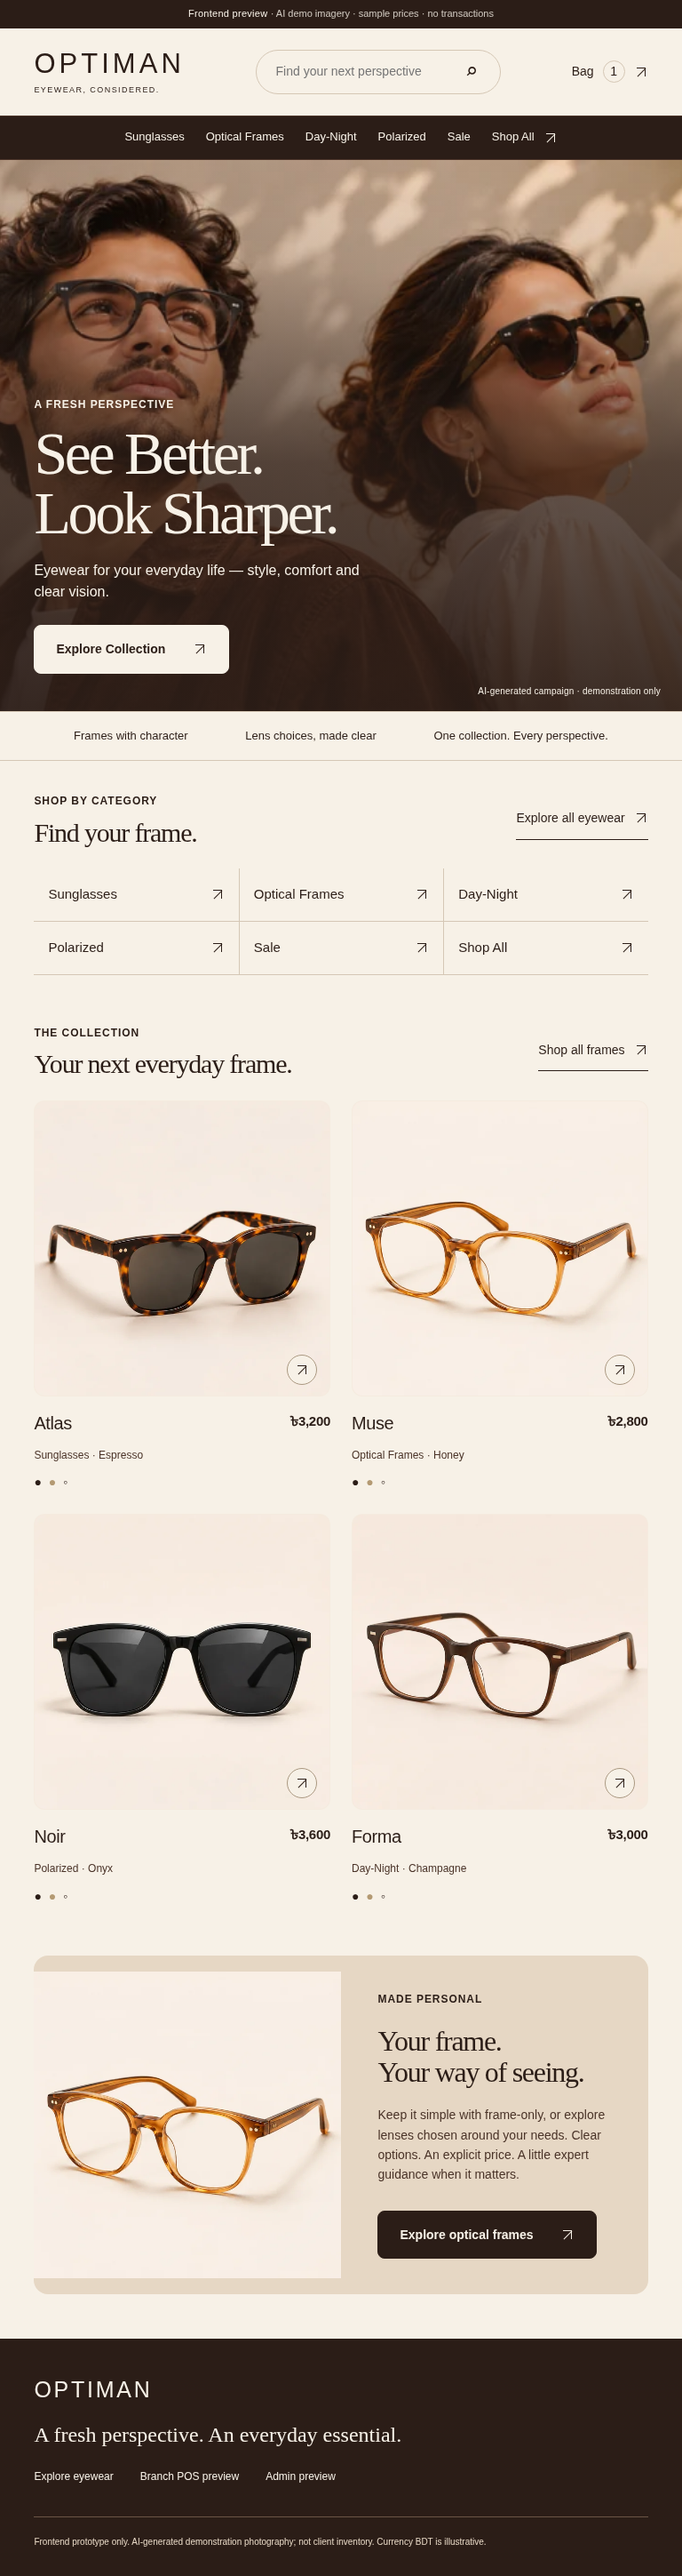
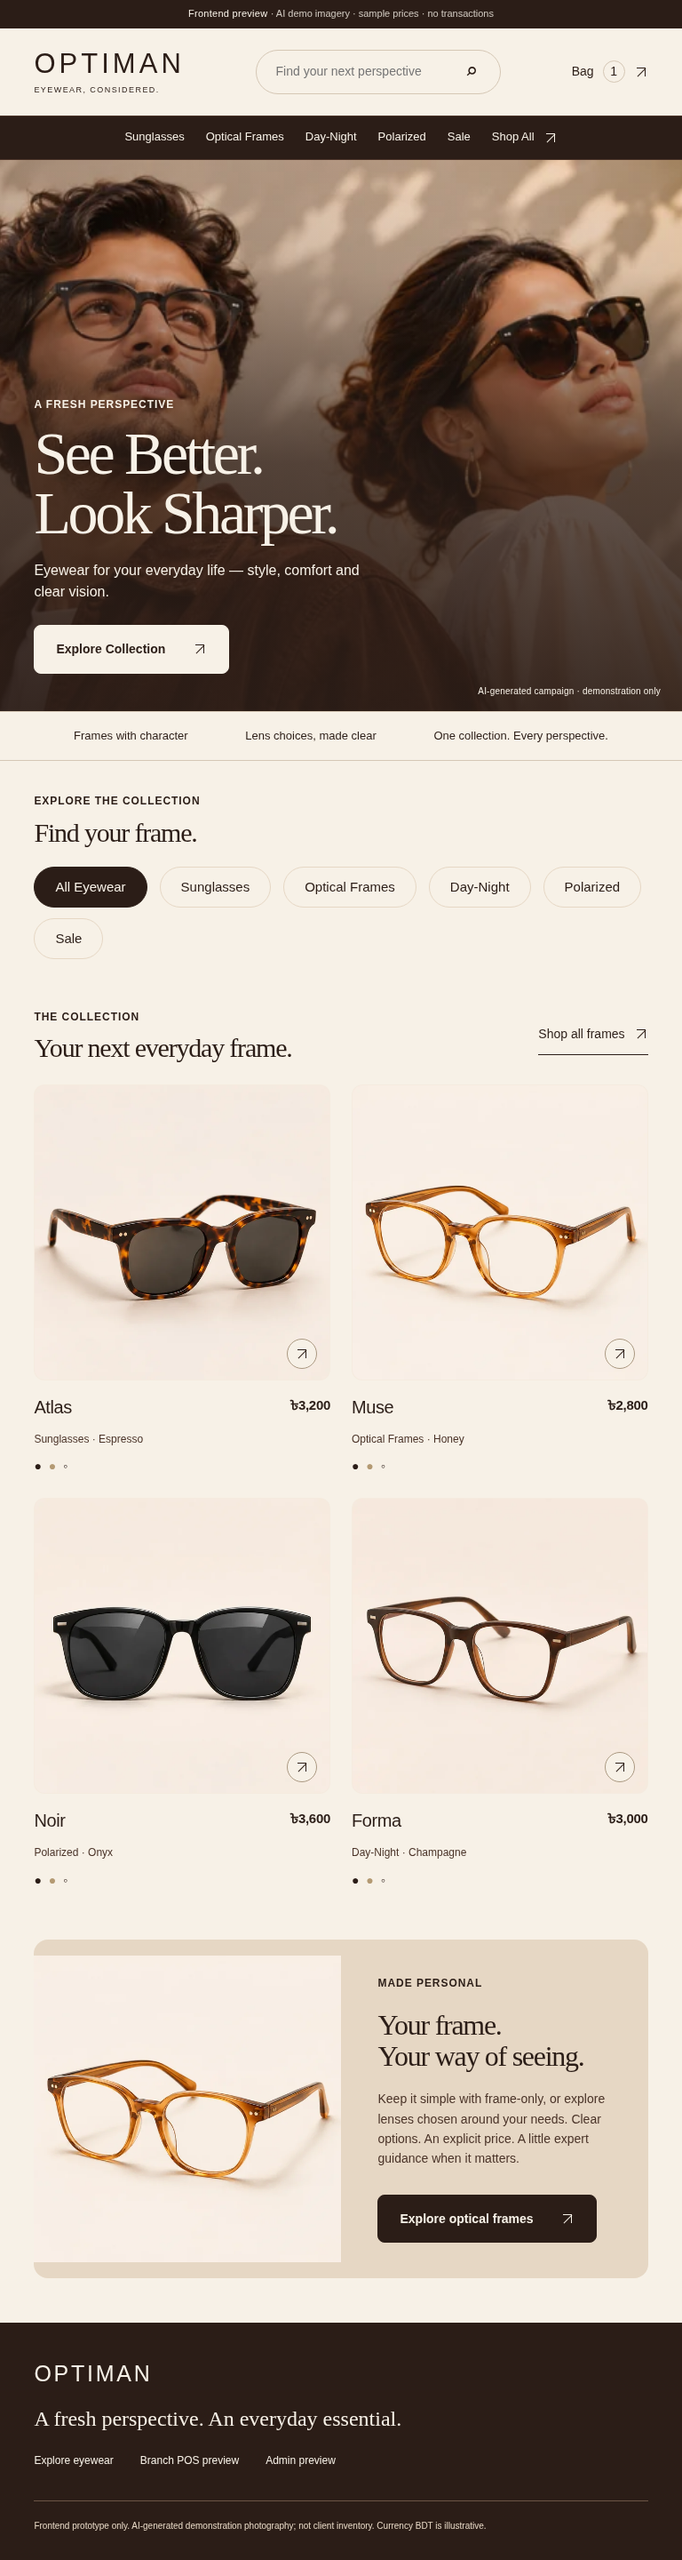
Refine homepage discovery into premium category pills

diff --git a/preview/app.js b/preview/app.js
@@ -20,10 +20,16 @@ function productPhoto(p, context='card') {
 }
 function card(p){return `<article class="product-card"><a href="#product/${p.id}" class="product-image">${productPhoto(p)}<span class="image-arrow"><i class="arrow" aria-hidden="true"></i></span></a><div class="card-meta"><div><a href="#product/${p.id}"><h3>${p.name}</h3></a><p>${p.category} · ${p.color}</p></div><strong>${money(p.price)}</strong></div><span class="dots" aria-label="Illustrative color palette">● <span>●</span> ◦</span></article>`;}
 function heading(k,t,desc=''){return `<div class="page-heading"><p class="eyebrow">${k}</p><h1>${t}</h1>${desc?`<p>${desc}</p>`:''}</div>`;}
-function home(){return `<section class="hero campaign-hero"><div class="hero-copy"><p class="eyebrow">A fresh perspective</p><h1>See Better.<br><em>Look Sharper.</em></h1><p>Eyewear for your everyday life — style, comfort and clear vision.</p><a class="button" href="#shop">Explore Collection <i class="arrow" aria-hidden="true"></i></a></div><figure class="hero-art"><img src="assets/campaign-eyewear-duo-1200.webp" srcset="assets/campaign-eyewear-duo-768.webp 768w, assets/campaign-eyewear-duo-1200.webp 1200w, assets/campaign-eyewear-duo-1774.webp 1774w" sizes="100vw" width="1774" height="887" alt="AI-generated campaign photograph of two models wearing optical glasses and sunglasses in warm sunlight" fetchpriority="high" loading="eager" decoding="async"></figure><p class="campaign-credit">AI-generated campaign · demonstration only</p></section><div class="benefit-strip"><span>Frames with character</span><span>Lens choices, made clear</span><span>One collection. Every perspective.</span></div><section class="section category-section"><div class="section-title"><div><p class="eyebrow">SHOP BY CATEGORY</p><h2>Find your frame.</h2></div><a href="#shop">Explore all eyewear <i class="arrow" aria-hidden="true"></i></a></div><div class="category-links">${[
-  ['Sunglasses','sunglasses'],['Optical Frames','optical'],['Day-Night','day-night'],
-  ['Polarized','polarized'],['Sale','sale'],['Shop All','']
-].map(([label,slug])=>`<a class="category-link" aria-label="${label}" href="#shop${slug?'/'+slug:''}"><span>${label}<i class="arrow" aria-hidden="true"></i></span></a>`).join('')}</div></section><section class="section"><div class="section-title"><div><p class="eyebrow">The collection</p><h2>Your next everyday frame.</h2></div><a href="#shop">Shop all frames <i class="arrow" aria-hidden="true"></i></a></div><div class="product-grid">${products.map(card).join('')}</div></section><section class="editorial">${productPhoto(products[1],'editorial')}<div><p class="eyebrow">MADE PERSONAL</p><h2>Your frame.<br>Your way of seeing.</h2><p>Keep it simple with frame-only, or explore lenses chosen around your needs. Clear options. An explicit price. A little expert guidance when it matters.</p><a class="button" href="#product/muse">Explore optical frames <i class="arrow" aria-hidden="true"></i></a></div></section>`;}
+function categoryPills() {
+  const route = location.hash === '' || location.hash === '#home' ? '#shop' : location.hash;
+  const categories = [
+    ['All Eyewear', '#shop'], ['Sunglasses', '#shop/sunglasses'],
+    ['Optical Frames', '#shop/optical'], ['Day-Night', '#shop/day-night'],
+    ['Polarized', '#shop/polarized'], ['Sale', '#shop/sale']
+  ];
+  return categories.map(([label, href]) => `<a class="category-pill${route === href ? ' is-active' : ''}" href="${href}"${route === href ? ' aria-current="true"' : ''}>${label}</a>`).join('');
+}
+function home(){return `<section class="hero campaign-hero"><div class="hero-copy"><p class="eyebrow">A fresh perspective</p><h1>See Better.<br><em>Look Sharper.</em></h1><p>Eyewear for your everyday life — style, comfort and clear vision.</p><a class="button" href="#shop">Explore Collection <i class="arrow" aria-hidden="true"></i></a></div><figure class="hero-art"><img src="assets/campaign-eyewear-duo-1200.webp" srcset="assets/campaign-eyewear-duo-768.webp 768w, assets/campaign-eyewear-duo-1200.webp 1200w, assets/campaign-eyewear-duo-1774.webp 1774w" sizes="100vw" width="1774" height="887" alt="AI-generated campaign photograph of two models wearing optical glasses and sunglasses in warm sunlight" fetchpriority="high" loading="eager" decoding="async"></figure><p class="campaign-credit">AI-generated campaign · demonstration only</p></section><div class="benefit-strip"><span>Frames with character</span><span>Lens choices, made clear</span><span>One collection. Every perspective.</span></div><section class="section category-section"><div class="section-title"><div><p class="eyebrow">EXPLORE THE COLLECTION</p><h2>Find your frame.</h2></div></div><div class="category-pills" role="group" aria-label="Explore eyewear categories">${categoryPills()}</div></section><section class="section"><div class="section-title"><div><p class="eyebrow">The collection</p><h2>Your next everyday frame.</h2></div><a href="#shop">Shop all frames <i class="arrow" aria-hidden="true"></i></a></div><div class="product-grid">${products.map(card).join('')}</div></section><section class="editorial">${productPhoto(products[1],'editorial')}<div><p class="eyebrow">MADE PERSONAL</p><h2>Your frame.<br>Your way of seeing.</h2><p>Keep it simple with frame-only, or explore lenses chosen around your needs. Clear options. An explicit price. A little expert guidance when it matters.</p><a class="button" href="#product/muse">Explore optical frames <i class="arrow" aria-hidden="true"></i></a></div></section>`;}
 function shop(){const slug=location.hash.split('/')[1]||'';const cats={'sunglasses':'Sunglasses','optical':'Optical Frames','day-night':'Day-Night','polarized':'Polarized','sale':'Sale'};return `${heading('THE COLLECTION',cats[slug]||'Find your perspective.','Synthetic collection · demonstration frame prices')}<section class="section listing"><div class="filterbar"><label>Search<input id="filter-search" type="search" placeholder="Name or color"></label><label>Category<select id="filter-category"><option value="">All eyewear</option>${['Sunglasses','Optical Frames','Day-Night','Polarized','Sale'].map(c=>`<option ${cats[slug]===c?'selected':''}>${c}</option>`).join('')}</select></label><label>Price<select id="filter-price"><option value="0">All prices</option><option value="3000">Up to ৳3,000</option></select></label><label>Sort<select id="sort"><option value="featured">Featured</option><option value="low">Price: low to high</option><option value="high">Price: high to low</option><option value="name">Name</option></select></label><button class="quiet" id="clear-filters">Reset</button></div><p id="results-count" class="muted" aria-live="polite"></p><div class="product-grid" id="results"></div></section>`;}
 function results(){let list=products.filter(p=>(p.name+' '+p.color).toLowerCase().includes(document.querySelector('#filter-search').value.toLowerCase())&&(!document.querySelector('#filter-category').value||p.category===document.querySelector('#filter-category').value)&&(!+document.querySelector('#filter-price').value||p.price<=+document.querySelector('#filter-price').value));const sort=document.querySelector('#sort').value;list.sort((a,b)=>sort==='low'?a.price-b.price:sort==='high'?b.price-a.price:sort==='name'?a.name.localeCompare(b.name):0);document.querySelector('#results-count').textContent=`${list.length} illustrative styles`;document.querySelector('#results').innerHTML=list.length?list.map(card).join(''):'<div class="empty"><h2>A fresh start?</h2><p>No styles match. Try resetting your filters.</p></div>';}
 function current(){return products.find(p=>p.id===location.hash.split('/')[1])||products[0];}

diff --git a/preview/index.html b/preview/index.html
@@ -1,2 +1,2 @@
 <!doctype html>
-<html lang="en"><head><meta charset="utf-8"><meta name="viewport" content="width=device-width,initial-scale=1"><meta name="theme-color" content="#2B1D17"><title>Optiman · See Better. Look Sharper.</title><link rel="stylesheet" href="styles.css?v=categories-033"><script src="app.js?v=categories-033" defer></script></head><body><a class="skip" href="#main">Skip to content</a><div class="demo">Frontend preview <span>· AI demo imagery · sample prices · no transactions</span></div><header><div class="masthead"><button class="menu icon" aria-label="Open menu" aria-expanded="false">☰</button><a class="logo" href="#home">OPTIMAN<span>EYEWEAR, CONSIDERED.</span></a><form id="search-form" role="search"><label class="sr" for="search">Search eyewear</label><input id="search" placeholder="Find your next perspective"><button aria-label="Search">⌕</button></form><a class="cart-link" href="#cart">Bag <span id="bag-count">0</span> <i class="arrow" aria-hidden="true"></i></a></div><nav aria-label="Main navigation"><a href="#shop/sunglasses">Sunglasses</a><a href="#shop/optical">Optical Frames</a><a href="#shop/day-night">Day-Night</a><a href="#shop/polarized">Polarized</a><a href="#shop/sale">Sale</a><a href="#shop">Shop All <i class="arrow" aria-hidden="true"></i></a></nav></header><main id="main" tabindex="-1"></main><footer><a class="logo" href="#home">OPTIMAN</a><p>A fresh perspective. An everyday essential.</p><div><a href="#shop">Explore eyewear</a><a href="#pos">Branch POS preview</a><a href="#admin">Admin preview</a></div><small>Frontend prototype only. AI-generated demonstration photography; not client inventory. Currency BDT is illustrative.</small></footer><dialog id="modal"><button id="close-modal" class="close" aria-label="Close dialog">×</button><div id="modal-content"></div></dialog><div id="toast" role="status" aria-live="polite"></div></body></html>
+<html lang="en"><head><meta charset="utf-8"><meta name="viewport" content="width=device-width,initial-scale=1"><meta name="theme-color" content="#2B1D17"><title>Optiman · See Better. Look Sharper.</title><link rel="stylesheet" href="styles.css?v=pills-034"><script src="app.js?v=pills-034" defer></script></head><body><a class="skip" href="#main">Skip to content</a><div class="demo">Frontend preview <span>· AI demo imagery · sample prices · no transactions</span></div><header><div class="masthead"><button class="menu icon" aria-label="Open menu" aria-expanded="false">☰</button><a class="logo" href="#home">OPTIMAN<span>EYEWEAR, CONSIDERED.</span></a><form id="search-form" role="search"><label class="sr" for="search">Search eyewear</label><input id="search" placeholder="Find your next perspective"><button aria-label="Search">⌕</button></form><a class="cart-link" href="#cart">Bag <span id="bag-count">0</span> <i class="arrow" aria-hidden="true"></i></a></div><nav aria-label="Main navigation"><a href="#shop/sunglasses">Sunglasses</a><a href="#shop/optical">Optical Frames</a><a href="#shop/day-night">Day-Night</a><a href="#shop/polarized">Polarized</a><a href="#shop/sale">Sale</a><a href="#shop">Shop All <i class="arrow" aria-hidden="true"></i></a></nav></header><main id="main" tabindex="-1"></main><footer><a class="logo" href="#home">OPTIMAN</a><p>A fresh perspective. An everyday essential.</p><div><a href="#shop">Explore eyewear</a><a href="#pos">Branch POS preview</a><a href="#admin">Admin preview</a></div><small>Frontend prototype only. AI-generated demonstration photography; not client inventory. Currency BDT is illustrative.</small></footer><dialog id="modal"><button id="close-modal" class="close" aria-label="Close dialog">×</button><div id="modal-content"></div></dialog><div id="toast" role="status" aria-live="polite"></div></body></html>

diff --git a/preview/styles.css b/preview/styles.css
@@ -65,26 +65,24 @@ nav a{display:flex;align-items:center;gap:10px;min-height:48px;padding:12px 0}
 .section-title h2{font-size:clamp(30px,3vw,42px)}
 .section-title>a{display:inline-flex;align-items:center;gap:10px;min-height:44px;font-size:14px;white-space:normal}
 .section-title .eyebrow{margin-bottom:9px}
-/* Phase 03.3: text-only discovery, lighter than the product collection. */
+/* Phase 03.4: compact, wrapping category pills scoped to the homepage. */
 .category-section{padding-bottom:20px}
 .category-section + .section{padding-top:20px}
-.category-section .category-links{display:grid;grid-template-columns:repeat(6,minmax(0,1fr));gap:0;border:0}
-.category-section .category-links .category-link{display:flex;align-items:center;min-width:0;min-height:60px;padding:12px 16px;border:0;border-bottom:1px solid var(--line);border-radius:0;background:transparent;font-size:15px;font-weight:500;transition:background-color .15s ease,border-color .15s ease}
-.category-link>span{display:flex;align-items:center;justify-content:space-between;gap:12px;width:100%}
-.category-section .category-links .category-link + .category-link{border-left:1px solid var(--line)}
-.category-section .category-links .category-link:hover{background:var(--sand);border-bottom-color:var(--brown)}
-.category-section .category-links .category-link:focus-visible{outline:2px solid var(--brown);outline-offset:-3px;background:var(--sand)}
-@media(min-width:600px) and (max-width:1023px){
- .category-section .category-links{grid-template-columns:repeat(3,minmax(0,1fr))}
- .category-section .category-links .category-link:nth-child(3n+1){border-left:0}
-}
+.category-section .section-title{margin-bottom:22px}
+.category-pills{display:flex;flex-wrap:wrap;gap:12px 14px;align-items:center}
+.category-pill{display:inline-flex;align-items:center;justify-content:center;min-height:46px;padding:10px 23px;border:1px solid var(--sand);border-radius:999px;background:var(--cream);color:var(--brown);font-size:15px;font-weight:500;line-height:1.5;white-space:nowrap;transition:background-color .15s ease,border-color .15s ease}
+.category-pill:hover{background:var(--sand);border-color:var(--caramel)}
+.category-pill.is-active{background:var(--brown);border-color:var(--brown);color:var(--cream)}
+.category-pill.is-active:hover{background:var(--mocha)}
+.category-pill:focus-visible{outline:2px solid var(--brown);outline-offset:4px}
 @media(max-width:599px){
- .category-section .category-links{grid-template-columns:repeat(2,minmax(0,1fr))}
- .category-section .category-links .category-link{min-height:52px;font-size:14px;padding:12px}
- .category-section .category-links .category-link:nth-child(2n+1){border-left:0}
  .category-section{padding-bottom:16px}
  .category-section + .section{padding-top:16px}
+ .category-section .section-title{margin-bottom:20px}
+ .category-pills{gap:10px}
+ .category-pill{font-size:14px;padding:10px 18px;min-height:44px}
 }
+@media(prefers-reduced-motion:reduce){.category-pill{transition:none}}
 .product-grid{gap:24px;align-items:start}
 .product-card{min-width:0}
 .product-image{border-radius:12px;background:#f5ebdf;border:1px solid transparent}

diff --git a/preview/README.md b/preview/README.md
@@ -106,3 +106,12 @@ The homepage category section now uses text links only, in the approved order. S
 Expected behavior and checks: all six routes and Sale's empty state remain intact; verify ordering, absence of images, grid columns, label clipping, touch targets, keyboard focus/Enter and all existing regression cases at five widths. Rollback: revert the Phase 03.3 commit. Screenshots: `evidence/home-categories-1440.png` and `evidence/home-categories-390.png` (additional widths included). No merge or deployment; await visual review.
 
 Phase 03.3 actual results: 45 existing layout checks and shopping regressions passed. Category checks passed at all five widths: correct 6/3/2 column counts, exact label order, zero category images, all 30 route/keyboard-activation cases, visible focus, minimum touch sizes, no text clipping or page overflow, and unchanged Sale empty state. No JavaScript errors; measured initial CLS was zero. Desktop/mobile homepage screenshots were visually reviewed.
+
+## Phase 03.4 — premium category pills
+The homepage category section now uses compact rounded links, ordered All Eyewear, Sunglasses, Optical Frames, Day-Night, Polarized, Sale. The eyebrow is “EXPLORE THE COLLECTION”. Cream/sand inactive pills and brown/cream active styling replace separators, arrows and the redundant link. Desktop fits one row; mobile wraps naturally with no horizontal scrolling. Touch targets are at least 44px.
+
+`categoryPills()` derives its active state from `location.hash`, with All Eyewear the allowed homepage default. There is no click-based selection state. The pills appear only on the homepage; their destination pages retain the existing category filter. The renderer also resolves active states for those routes, checked by the browser suite against the actual location. No pills are added to other screens.
+
+Validation: five viewport sizes, all six routes, active rendering, empty Sale, keyboard focus/Enter, touch sizes, wrapping, clipping and overflow via `node checks/premium.cjs`, plus existing `node checks/ui.cjs`. Screenshots: `evidence/home-pills-1440.png` and `evidence/home-pills-390.png` (all five widths included). Rollback: revert the Phase 03.4 commit. No dependencies or backend changes; do not merge or deploy.
+
+Phase 03.4 actual results: all five viewport checks passed, including exact label order, no category imagery/icons/arrows, homepage active default, route-derived selection for each destination, 44px+ targets, visible keyboard focus, Sale's empty state and no overflow/clipping. Desktop is one row; mobile wraps. Existing 45 layout checks and shopping regressions also passed with no JavaScript errors. Desktop/mobile screenshots were visually reviewed. Physical-device testing remains pending.

diff --git a/docs/03_UI_Spec.md b/docs/03_UI_Spec.md
@@ -44,3 +44,6 @@ Explicit user instruction supersedes the previous split-hero design: full-width 
 
 ## Phase 03.3 — clean category navigation / 2026-11-17
 Homepage discovery supersedes photographic tiles with six ordered text links and subtle separators: six columns from 1024px, three at tablet widths, two on mobile. Minimum 44px touch targets, visible keyboard focus and compact transition to featured frames. Remove the category-only image disclosure; preserve hero, top navigation, product data and business flows.
+
+## Phase 03.4 — premium category pills / 2026-11-17
+Homepage discovery now uses “EXPLORE THE COLLECTION” / “Find your frame.” and compact rounded links, in order: All Eyewear, Sunglasses, Optical Frames, Day-Night, Polarized, Sale. Cream/sand inactive pills; brown/cream active pill derived from the current route, with All Eyewear the allowed homepage default. Wrap on mobile; no arrows, images or redundant exploration link. Existing top navigation, hero, featured products and shopping rules are preserved.

diff --git a/docs/06_Plan.md b/docs/06_Plan.md
@@ -60,3 +60,7 @@ Every change to a locked rule requires a new version entry and explicit user app
 - Authorized homepage category refinement only: text navigation, no repeated product photos, exact six routes/order, reduced spacing before featured products.
 - Expected: 6/3/2 responsive columns, touch targets at least 44px, no clipping or overflow, Sale empty state unchanged. Run existing regression plus category keyboard/layout checks at 360/390/768/1024/1440px.
 - Rollback: revert this commit. Preserve the approved hero and top navigation; no merge, backend or deployment. Stop for visual approval.
+
+## Phase 03.4 — 2026-11-17
+- Homepage-only pill navigation refinement authorized. Expected: exact category order, route-derived active rendering, compact wrapping and touch targets at least 44px.
+- Validate five widths, all six routes including empty Sale, keyboard focus, active state and overflow. Rollback by reverting this commit. No dependencies, backend, merge or deployment; await visual approval.
